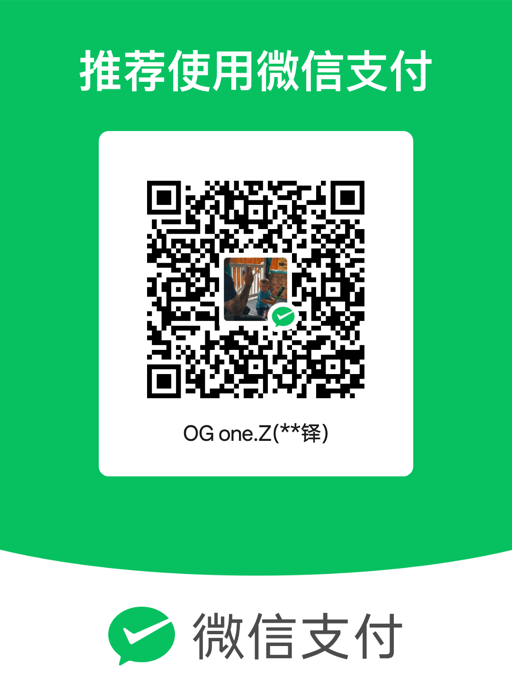
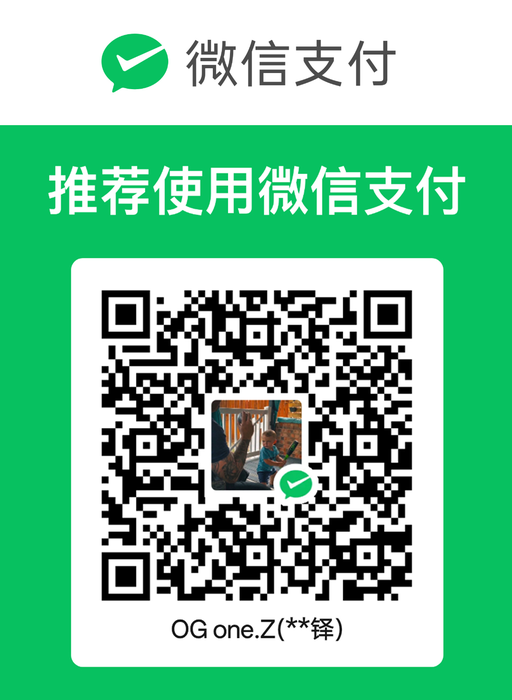
chore(donate): 收款码换新图并改存无损 PNG——等比缩至 512 宽、裁底部 68px 至 700 高（sips cropToHeightWidth 实测无视 cropOffset 做中心裁剪，已改用 PIL 原点裁剪重做）；去 JPEG quality=80 二次有损重编码避免二维码噪点，wxpay.jpg 删除、两图均 512x700 约 108KB

diff --git a/src/app/modals/DonateModal.tsx b/src/app/modals/DonateModal.tsx
@@ -1,7 +1,7 @@
 // P22 打赏作者弹窗：微信/支付宝两收款码并排 + 轻文案。
-// 收款码已用 sips 压缩（alipay.jpg / wxpay.png，均 <100KB），扫码经人工验证可用。
+// 收款码已等比缩至 512 宽、底部裁至 700 高，存无损 PNG（均 <120KB），扫码经人工验证可用。
 
-import alipayQr from "@/assets/donate/alipay.jpg";
+import alipayQr from "@/assets/donate/alipay.png";
 import wxpayQr from "@/assets/donate/wxpay.png";
 import { Dialog, DialogContent, DialogHeader, DialogTitle } from "@/components/ui/dialog";
 
